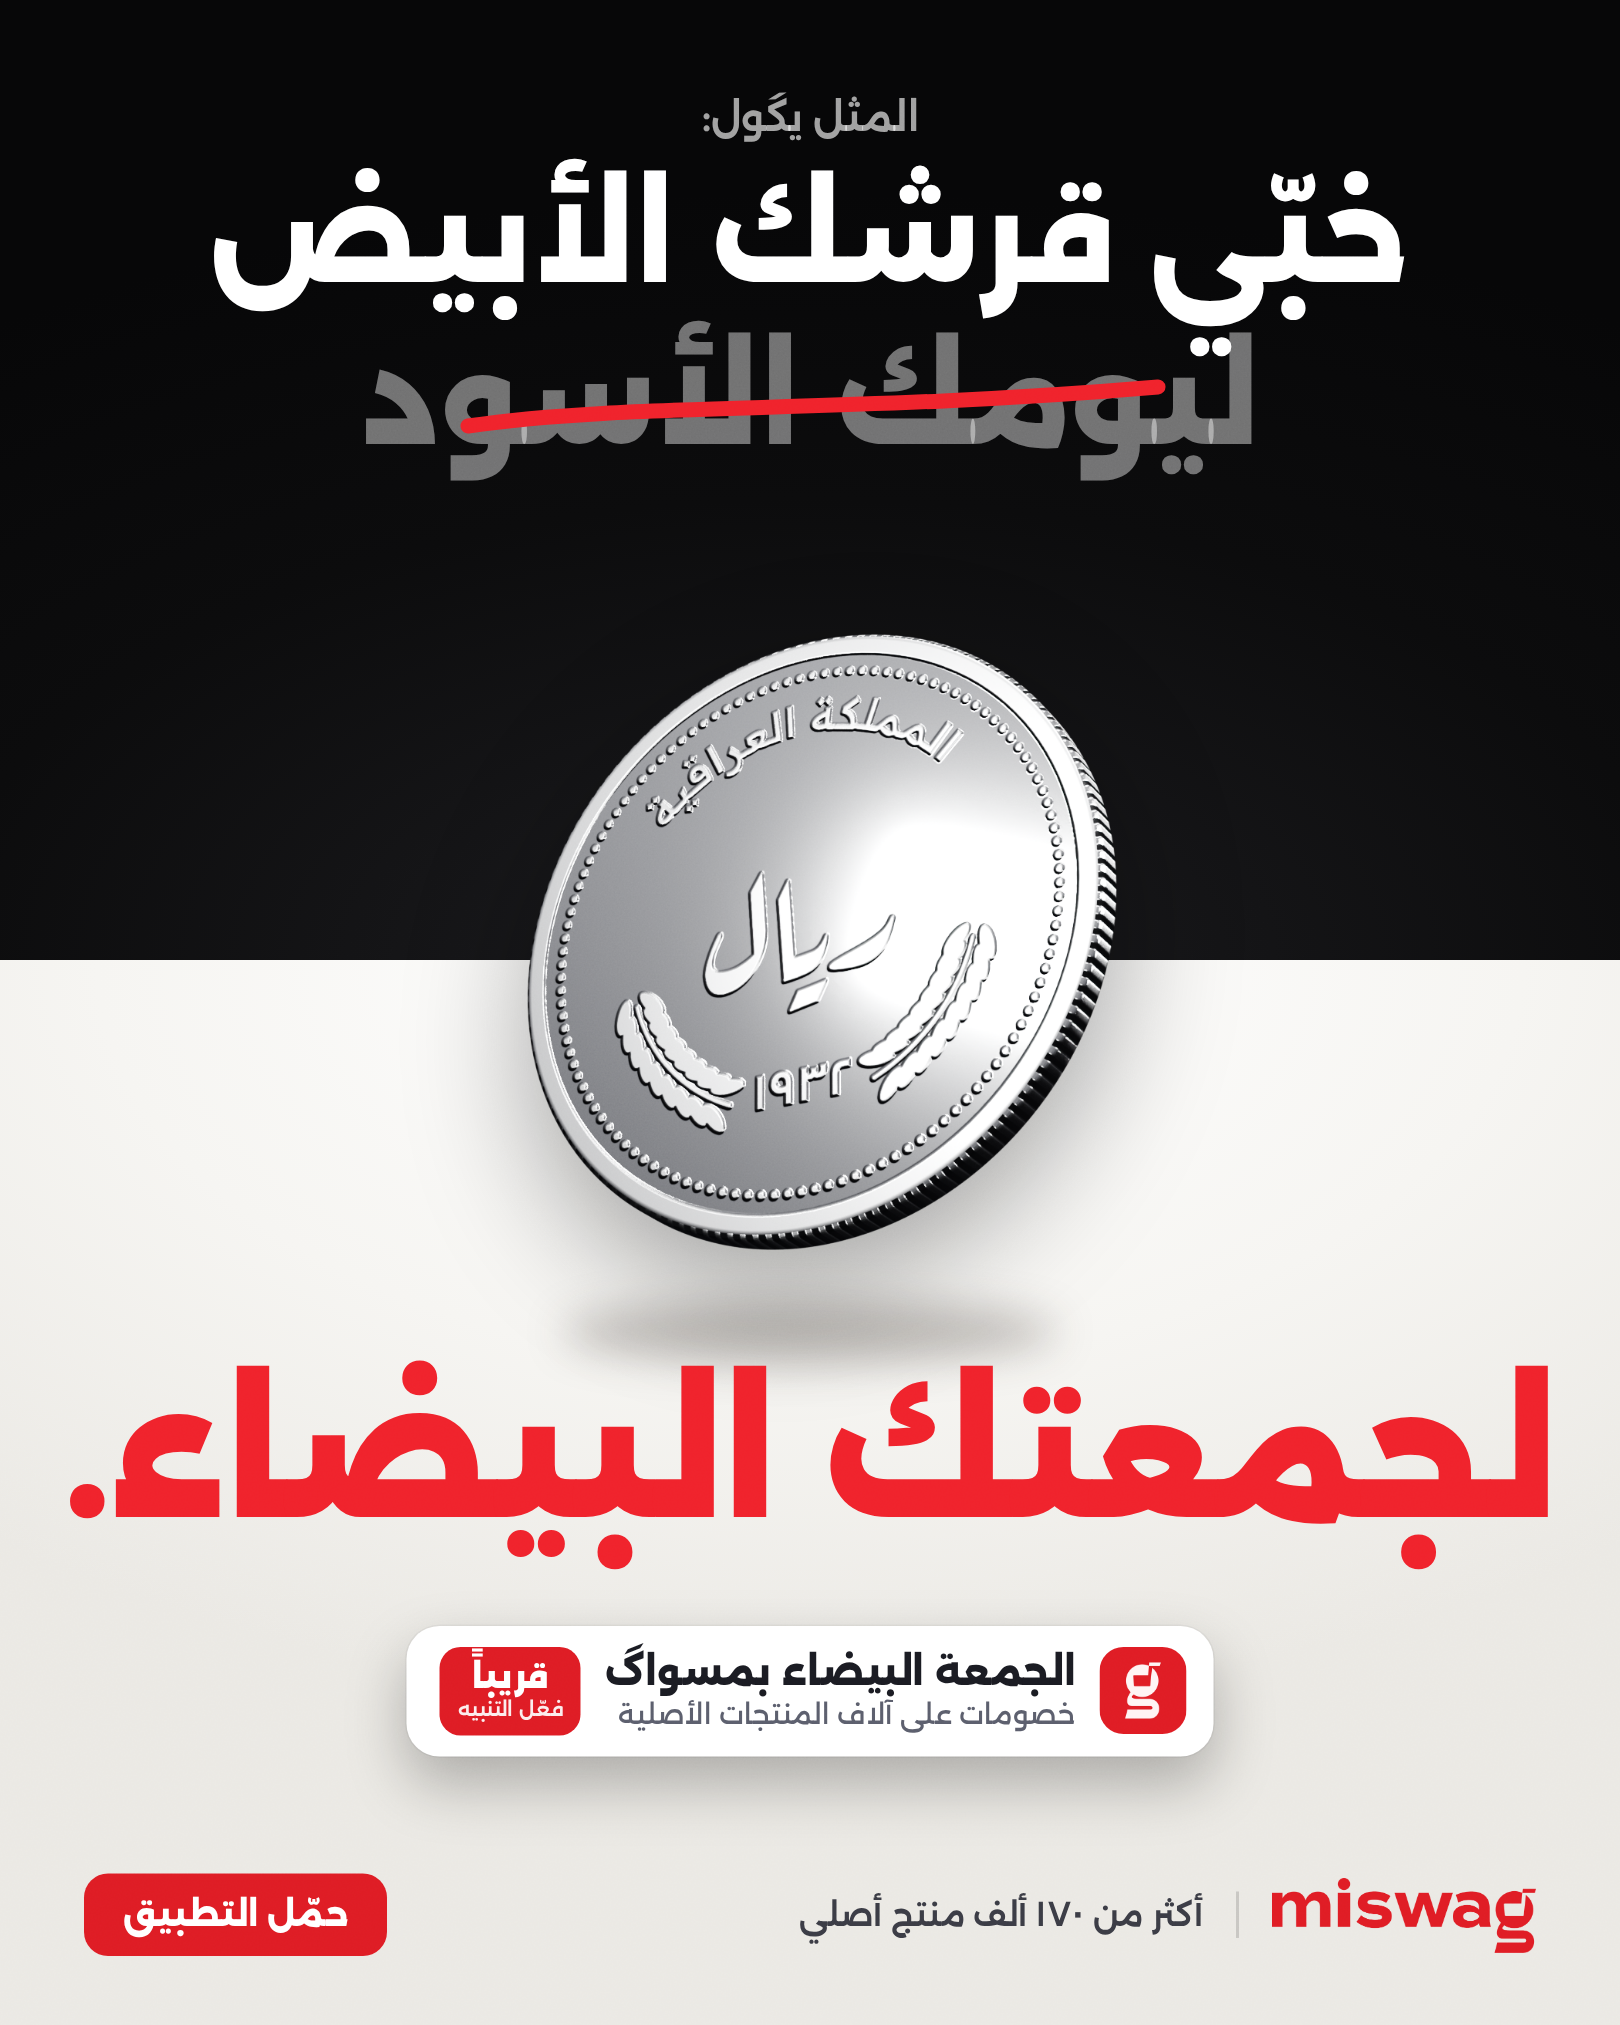
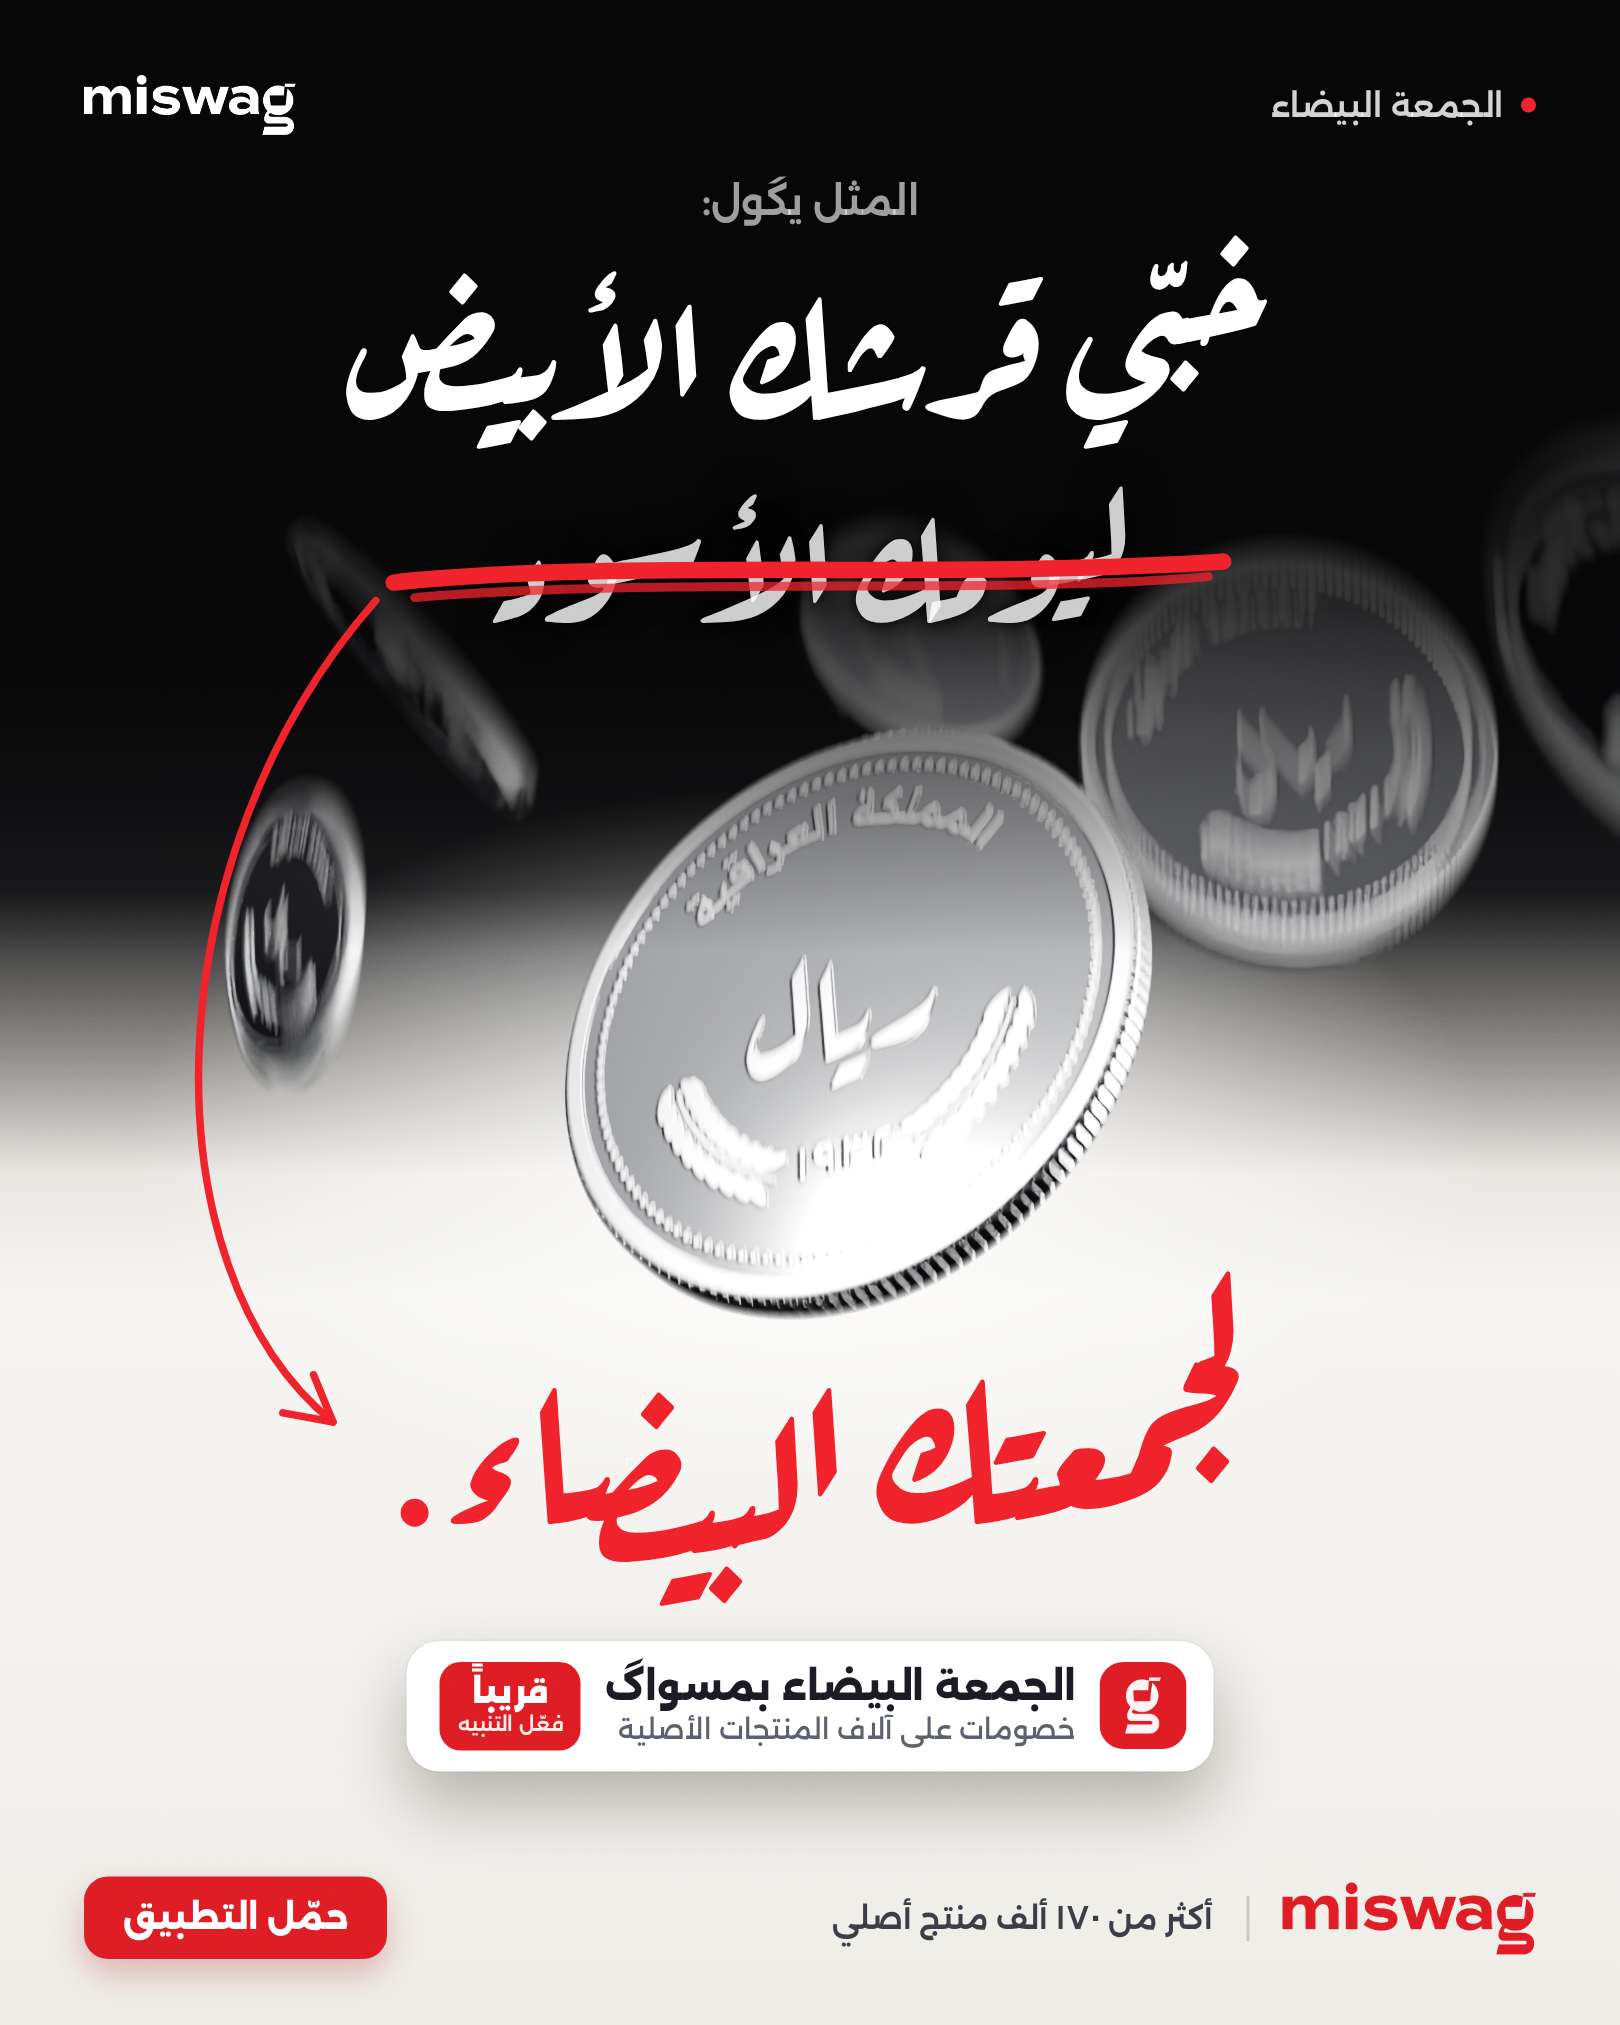
Miswag White Friday v2: concept 1 final (falling coins, Ruqaa proverb with a hand-drawn edit)
Claude-Session: https://claude.ai/code/session_013oWw8PeK3nbdaZG97hkGWn

diff --git a/marketing/miswag-white-friday/ads.html b/marketing/miswag-white-friday/ads.html
@@ -64,6 +64,8 @@
 <section class="ad" id="c1">
   <div class="full ground" data-l="bg"></div>
   <img class="full" data-l="photo" src="img/coins.png" alt="" style="top:44px" />
+  <!-- the coins up in the dark fade behind the proverb, so it reads -->
+  <div class="full" data-l="bg" style="z-index:5; background:linear-gradient(180deg, rgba(6,6,7,0.92) 0%, rgba(6,6,7,0.8) 30%, rgba(6,6,7,0.35) 40%, rgba(6,6,7,0) 47%)"></div>
 
   <div class="meta" data-l="txt">
     <span class="tag" style="color:rgba(255,255,255,0.82)"><i></i>الجمعة البيضاء</span>
@@ -72,7 +74,7 @@
 
   <div class="t" data-l="txt" style="top:118px; left:0; right:0; text-align:center; font-weight:600; font-size:26px; color:rgba(255,255,255,0.6)">المثل يگول:</div>
   <div class="t ruqaa" data-l="txt" style="top:136px; left:0; right:0; text-align:center; font-size:112px; color:#fff">خبّي قرشك الأبيض</div>
-  <div class="t ruqaa" data-l="txt" id="old" style="top:292px; left:0; right:0; text-align:center; font-size:96px; color:rgba(255,255,255,0.72); text-shadow:0 0 28px rgba(0,0,0,0.95), 0 0 8px rgba(0,0,0,0.9)">ليومك الأسود</div>
+  <div class="t ruqaa" data-l="txt" id="old" style="top:292px; left:0; right:0; text-align:center; font-size:96px; color:rgba(255,255,255,0.8); text-shadow:0 0 28px rgba(0,0,0,0.95), 0 0 8px rgba(0,0,0,0.9)">ليومك الأسود</div>
   <!-- the correction, by hand: a marker line through the old ending and an arrow down to the new one -->
   <svg class="t" data-l="txt" id="edit" width="1080" height="1350" style="left:0; top:0" fill="none" stroke="#f0222b" stroke-linecap="round" stroke-linejoin="round"></svg>
 
@@ -133,9 +135,10 @@
     const strike = `M${o.l - 18} ${y + 6} C ${o.l + 120} ${y - 10}, ${o.r - 160} ${y + 4}, ${o.r + 16} ${y - 8}`;
     const strike2 = `M${o.l - 4} ${y + 16} C ${o.l + 160} ${y + 2}, ${o.r - 120} ${y + 14}, ${o.r + 6} ${y + 2}`;
     // the arrow leaves the left end of the strike and swings down the left side to the new ending
-    const sx = o.l - 30, sy = y + 18, ex = n.l + 20, ey = n.t + (n.b - n.t) * 0.28;
-    const arrow = `M${sx} ${sy} C ${sx - 120} ${sy + 160}, ${66} ${ey - 260}, ${ex - 40} ${ey}`;
-    const ang = Math.atan2(ey - (ey - 260), (ex - 40) - 66), ax = ex - 40, ay = ey;
+    // it lands just left of the new ending's first stroke (the full stop), coming in from above-left
+    const sx = o.l - 30, sy = y + 18, ax = 222, ay = 948, c2 = [96, 846];
+    const arrow = `M${sx} ${sy} C ${sx - 150} ${sy + 170}, ${c2[0]} ${c2[1]}, ${ax} ${ay}`;
+    const ang = Math.atan2(ay - c2[1], ax - c2[0]);
     const head = (a) => `M${ax - 34 * Math.cos(ang - a)} ${ay - 34 * Math.sin(ang - a)} L ${ax} ${ay} L ${ax - 34 * Math.cos(ang + a)} ${ay - 34 * Math.sin(ang + a)}`;
     document.getElementById('edit').innerHTML =
       `<path d="${strike}" stroke-width="11" /><path d="${strike2}" stroke-width="6" opacity="0.75" />` +
